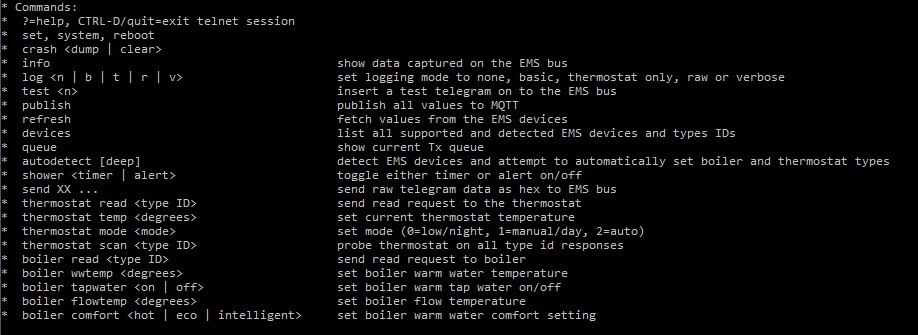
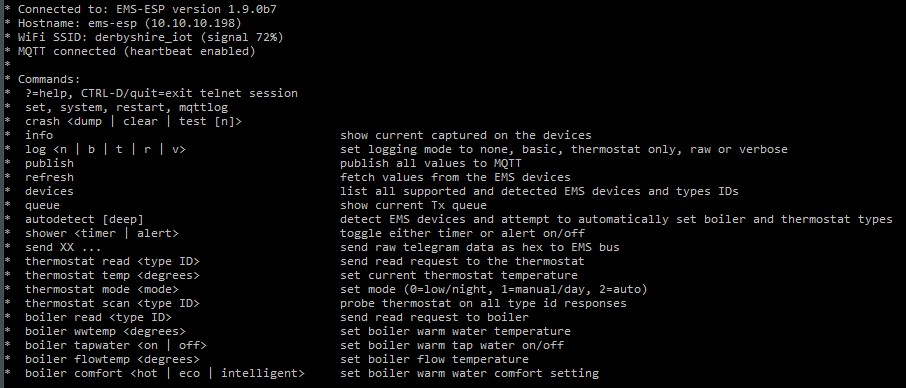
added screenshots for 1.9

Changed region(s): [[0.3709, 0.1791, 0.989, 0.9851], [0.0, 0.0, 0.34, 1.0]]

diff --git a/CHANGELOG.md b/CHANGELOG.md
@@ -5,30 +5,11 @@ All notable changes to this project will be documented in this file.
 The format is based on [Keep a Changelog](https://keepachangelog.com/en/1.0.0/),
 and this project adheres to [Semantic Versioning](https://semver.org/spec/v2.0.0.html).
 
-## How to build the firmware with 1.9.x
-- Make sure you update your local `platformio.ini` using the example one and set the target to `debug`.
-- On first boot it will re-build the SPIFFS config file so if you're upgrading from 1.8.x all the settings will be deleted and you will need to re-enter. This can be doen now via the web interface by connecting to WiFi AP called 'ems-esp'.
-- Default web admin password is `admin`.
-- When building the firmware with the `debug` target all the web front-end code is assembled and compressed. It only takes a second or two. However you'll need nodeJS and the gulp module installed for this.
-  - Download and install NodeJS from https://nodejs.org/en/download/
-  - Navigate to the folder tools/webfilesbuilder, and in that folder do a:
-  
-```
-   npm install --global gulp-cli
-   npm install gulp
-```
-  
-   (ignore any errors as I need to upgrade the gulp file to the latest 4.1 format)
-   
-   You can test if it worked by then typing `gulp`.
-
----
-
-## [1.9.0b7] 2019-08-30
+## [1.9.0] 2019-09-01
 
 ### Changed
 
-- Completely new web code with more features showing Boiler, Thermostat, Solar Module and Heat Pump
+- Completely new web code with more features showing Boiler, Thermostat, Solar Module and Heat Pump. See https://github.com/proddy/EMS-ESP/wiki/Running-and-Monitoring
 - Merged with @susisstrolch's TxMode2 branch for improved support for sending EMS packages
 - New MyESP library optimizations to WiFi and AP
 - reboot command renamed to restart to keep consistent with web
